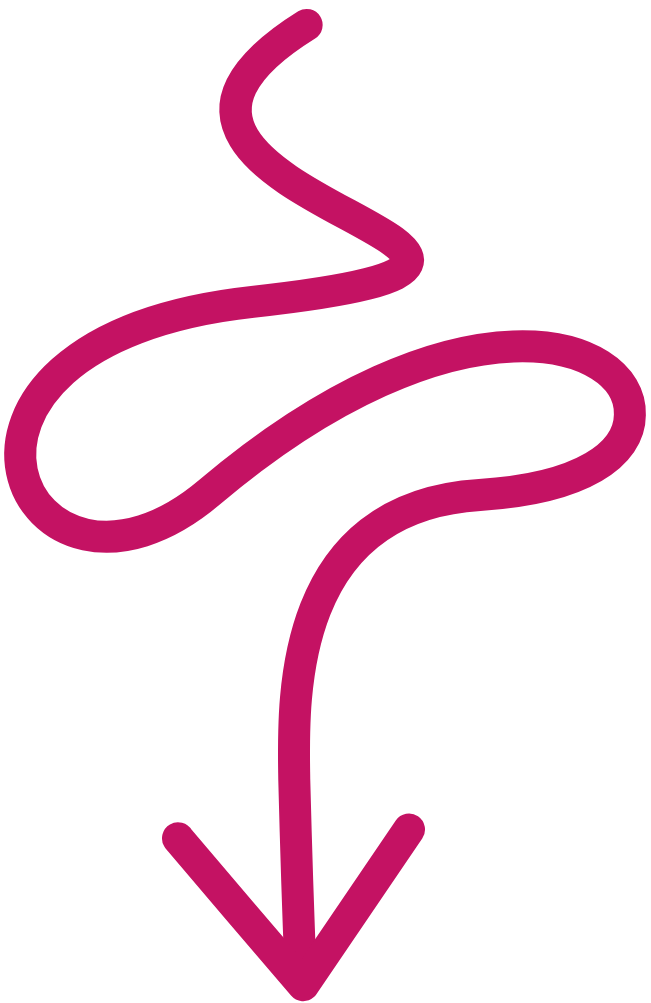
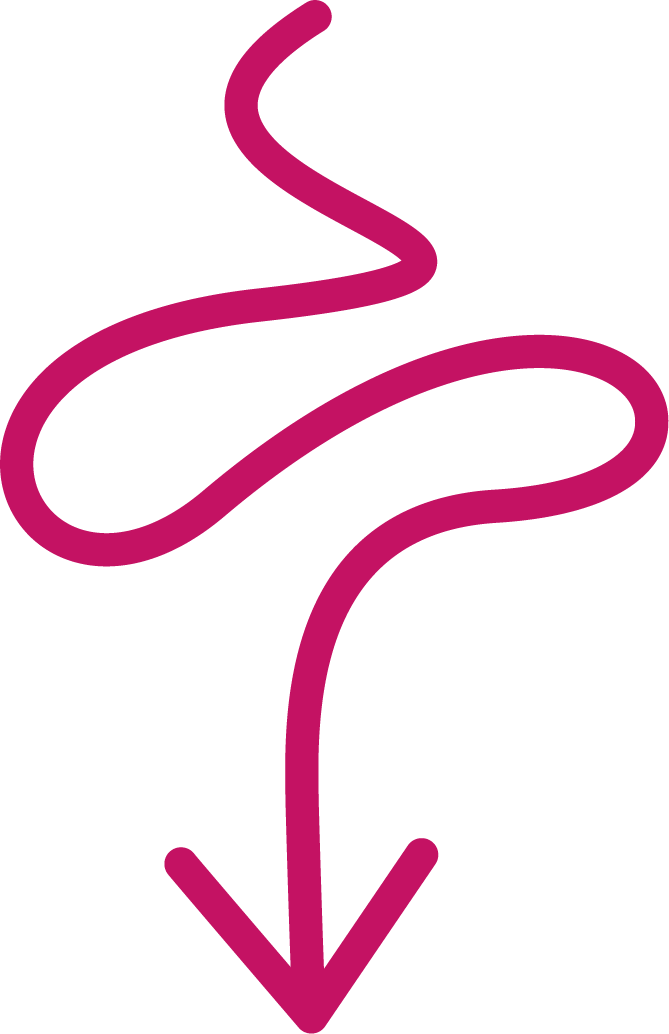
Fixed homescreen image and aspects of how the Mask component works

diff --git a/components/elements/Buttons.js b/components/elements/Buttons.js
@@ -39,7 +39,7 @@ function ButtonIcon({ img, type }) {
       <div className="button--img">
         {type == "mask" ? (
           <>
-            <Mask className="button--icon button--icon__mask" img={iconImg} />
+            <Mask className="button--icon button--icon__mask" src={iconImg.src} alt={iconImg.alt} width={iconImg.width} height={iconImg.height} />
           </>
         ) : (
           <>
@@ -65,9 +65,9 @@ function Button({ children, className, type, icon, ...props }) {
       <DLink className={"button" + (className ? ` ${className}` : "") + (type ? ` button__${type}` : "") + (iconSide ? ` button__${iconSide}` : "")} tabIndex="0" {...props}>
         {icon ? (
           <>
-            {iconSide == "right" && <ButtonCopy>{children}</ButtonCopy>}
-            <ButtonIcon img={iconName} type={iconType}></ButtonIcon>
-            {iconSide == "left" && <ButtonCopy>{children}</ButtonCopy>}
+            {iconSide == "left" && <ButtonIcon img={iconName} type={iconType}></ButtonIcon>}
+            <ButtonCopy>{children}</ButtonCopy>
+            {iconSide == "right" && <ButtonIcon img={iconName} type={iconType}></ButtonIcon>}
           </>
         ) : (
           <ButtonCopy>{children}</ButtonCopy>

diff --git a/pages/index.js b/pages/index.js
@@ -13,6 +13,7 @@ import Scrollblock from "/components/global/Scrollblock";
 import { Panel, PanelDesc, PanelImg } from "/components/Elements/Panel";
 import Button from "/components/Elements/Buttons";
 import Tag from "/components/Elements/Tag";
+import Mask from "/components/utilities/Mask";
 
 
 
@@ -37,9 +38,7 @@ function Index() {
             <p className="text--body">This is my portfolio. Enjoy your stay :)</p>
           </PanelDesc>
           <PanelImg className="col-6">
-            {/* TODO: fix the pixelated look of this img */}
-            {/* TODO: I think all linked images like these are supposed to be imported? */}
-            <Image src="/assets/images/flair/Arrow_Squiggle.png" alt="Squiggly arrow pointing downwards" width={651} height={1003} />
+            <Mask src="/assets/images/flair/Arrow_Squiggle.svg" alt="Squiggly arrow pointing downwards" width={160.42} height={248.06} />
           </PanelImg>
         </Panel>
       </Scrollblock>

diff --git a/styles/style.css b/styles/style.css
@@ -1067,6 +1067,7 @@ body {
   padding: 0.4rem 0.5rem 0.25rem 0.5rem;
   border: 0.125rem solid #074391;
   border-radius: var(--b-rad_less);
+  cursor: default;
 }
 
 .tag--group {
@@ -1160,10 +1161,34 @@ body {
   color: var(--nav-color);
 }
 
+.mask {
+  --mask-aspect-width: 205;
+  --mask-aspect-height: 168;
+  mask-image: var(--mask-img);
+  -webkit-mask-size: contain;
+  -webkit-mask-repeat: no-repeat;
+}
+
+@supports (aspect-ratio: 1/1) {
+  .mask {
+    aspect-ratio: var(--mask-aspect-width) / var(--mask-aspect-height);
+  }
+}
+
+@supports not (aspect-ratio: 1/1) {
+  .mask {
+    height: calc(100% / (var(--mask-aspect-width) / var(--mask-aspect-height)));
+  }
+}
+
 #Home--Hero .section--img {
   margin-right: auto;
   margin-left: auto;
   width: 9.5rem;
+}
+
+#Home--Hero .section--img .mask {
+  background-color: #C41263;
 }
 
 #Home--Hero .section--desc .text--body {

diff --git a/components/utilities/Mask.js b/components/utilities/Mask.js
@@ -1,14 +1,13 @@
-function Mask({ className, img }) {
-
+function Mask({ className, src, alt, width, height }) {
   return (
     <div
       className={"mask" + (className ? ` ${className}` : "")}
       style={{
-        "--mask-aspect-width": img.width,
-        "--mask-aspect-height": img.height,
-        "--mask-img": `url('${img.src}')`,
+        "--mask-aspect-width": width,
+        "--mask-aspect-height": height,
+        "--mask-img": `url('${src}')`,
       }}
-      alt={img.alt} ></div>
+      alt={alt} ></div>
   );
 }
 

diff --git a/styles/partials/elements/_Buttons.scss b/styles/partials/elements/_Buttons.scss
@@ -1,13 +1,3 @@
-@mixin mask {
-  --mask-aspect-width: 205;
-  --mask-aspect-height: 168;
-  mask-image: var(--mask-img);
-  -webkit-mask-size: contain;
-  -webkit-mask-repeat: no-repeat;
-
-  @include aspect-support-fix(var(--mask-aspect-width), var(--mask-aspect-height), 100%, null);
-}
-
 .button {
   @include flex-row;
   @include b-rad;

diff --git a/styles/partials/global/_Mixins.scss b/styles/partials/global/_Mixins.scss
@@ -576,3 +576,15 @@
 	}
 }
 
+
+
+
+@mixin mask {
+	--mask-aspect-width: 205;
+	--mask-aspect-height: 168;
+	mask-image: var(--mask-img);
+	-webkit-mask-size: contain;
+	-webkit-mask-repeat: no-repeat;
+  
+	@include aspect-support-fix(var(--mask-aspect-width), var(--mask-aspect-height), 100%, null);
+  }

diff --git a/components/utilities/DynamicLink.js b/components/utilities/DynamicLink.js
@@ -10,7 +10,6 @@ function DLink(props) {
 
   useMountEffect(() => {
     if (!reference.current) return;
-    console.log(reference.current);
     addAttrNonDestructive(reference.current, "onclick", "setTimeout(()=>{this.blur();},200)", ";");
   });
 

diff --git a/styles/partials/elements/_Tags.scss b/styles/partials/elements/_Tags.scss
@@ -1,4 +1,5 @@
 .tag {
+
   &--group {
     @include flex-row;
     --tag-spacing: 1rem;
@@ -13,4 +14,5 @@
   padding: 0.4rem 0.5rem 0.25rem 0.5rem;
   border: 0.125rem solid $col-primary;
   border-radius: var(--b-rad_less);
+  cursor: default;
 }

diff --git a/styles/style.scss b/styles/style.scss
@@ -19,6 +19,7 @@
 @import "./partials/elements/Buttons";
 @import "./partials/elements/Tags";
 @import "./partials/elements/Navigation";
+@import "./partials/elements/Mask";
 
 
 @import "./partials/effects/ImgGradient";

diff --git a/styles/partials/pages/_Home.scss b/styles/partials/pages/_Home.scss
@@ -6,7 +6,12 @@
       &--img {
         @include mx-auto;
         width: 9.5rem;
+
+        .mask{
+          background-color: $col-secondary;
+        }
       }
+
 
       &--desc {
         .text--body {

diff --git a/styles/partials/elements/_Mask.scss b/styles/partials/elements/_Mask.scss
@@ -1,0 +1,5 @@
+
+
+.mask{
+    @include mask;
+}
